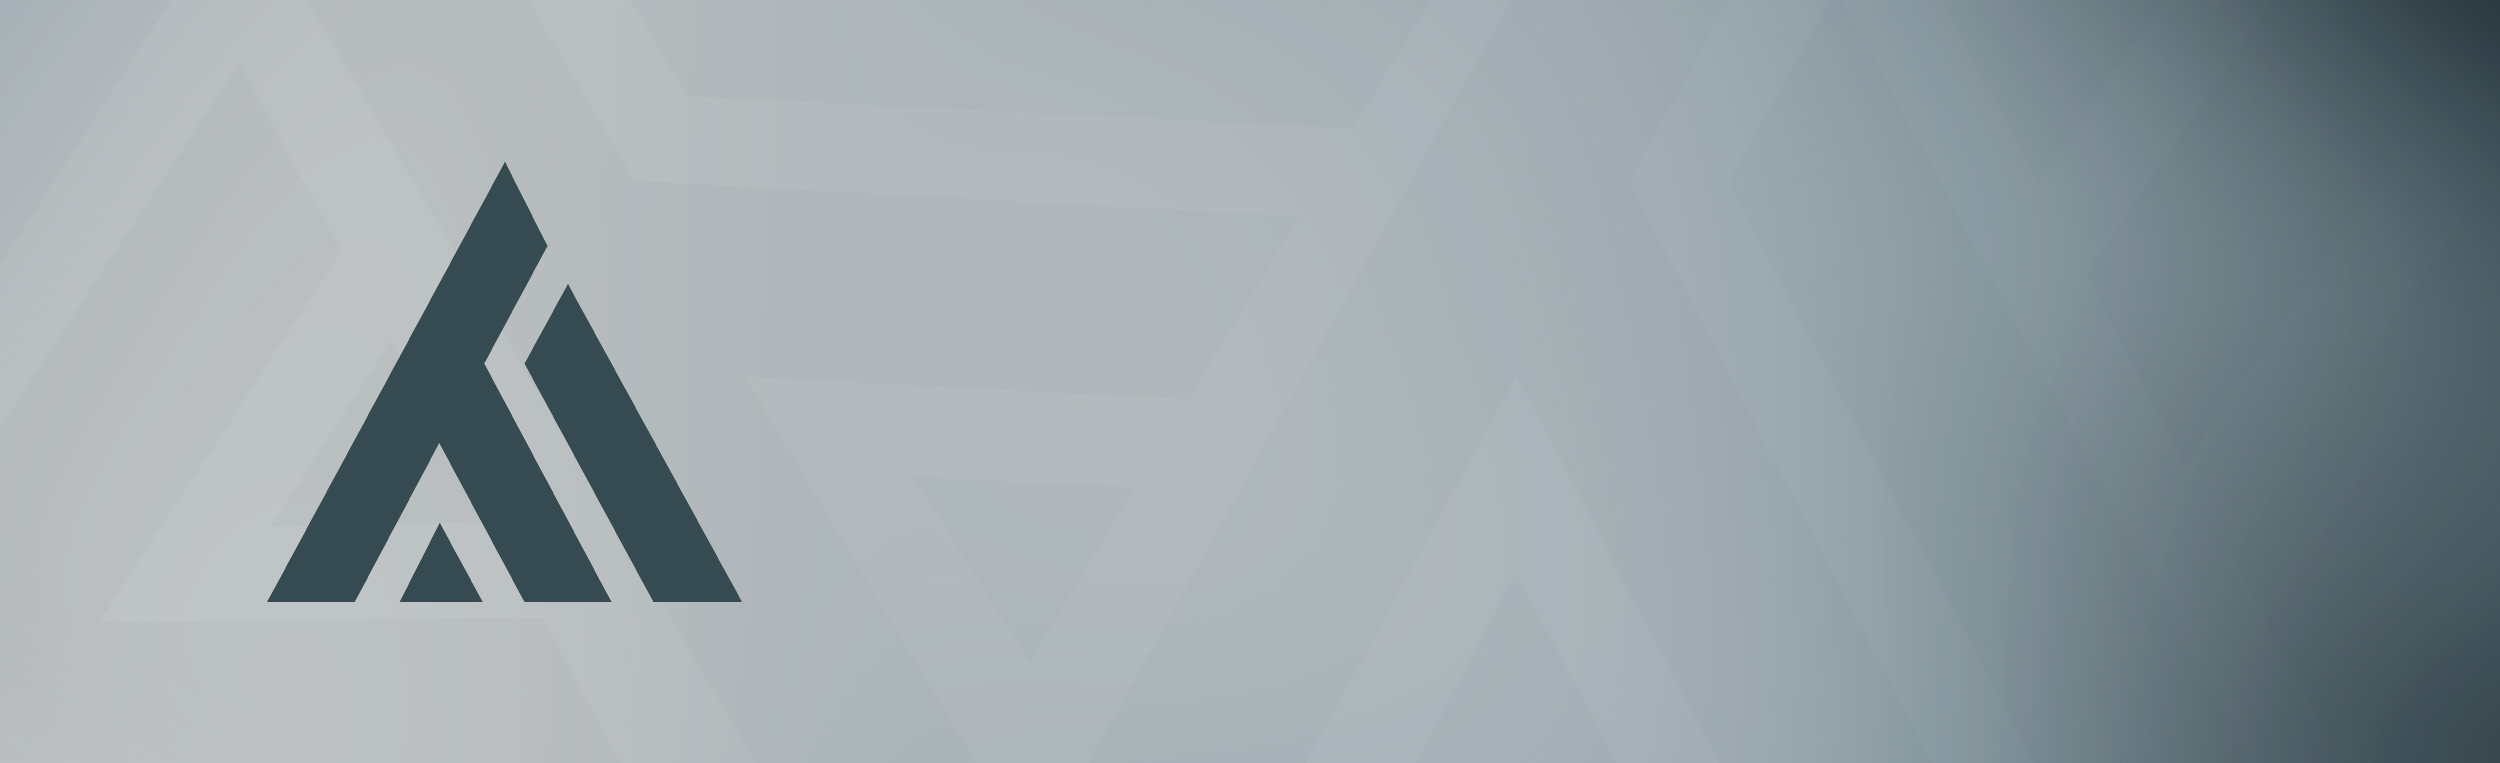
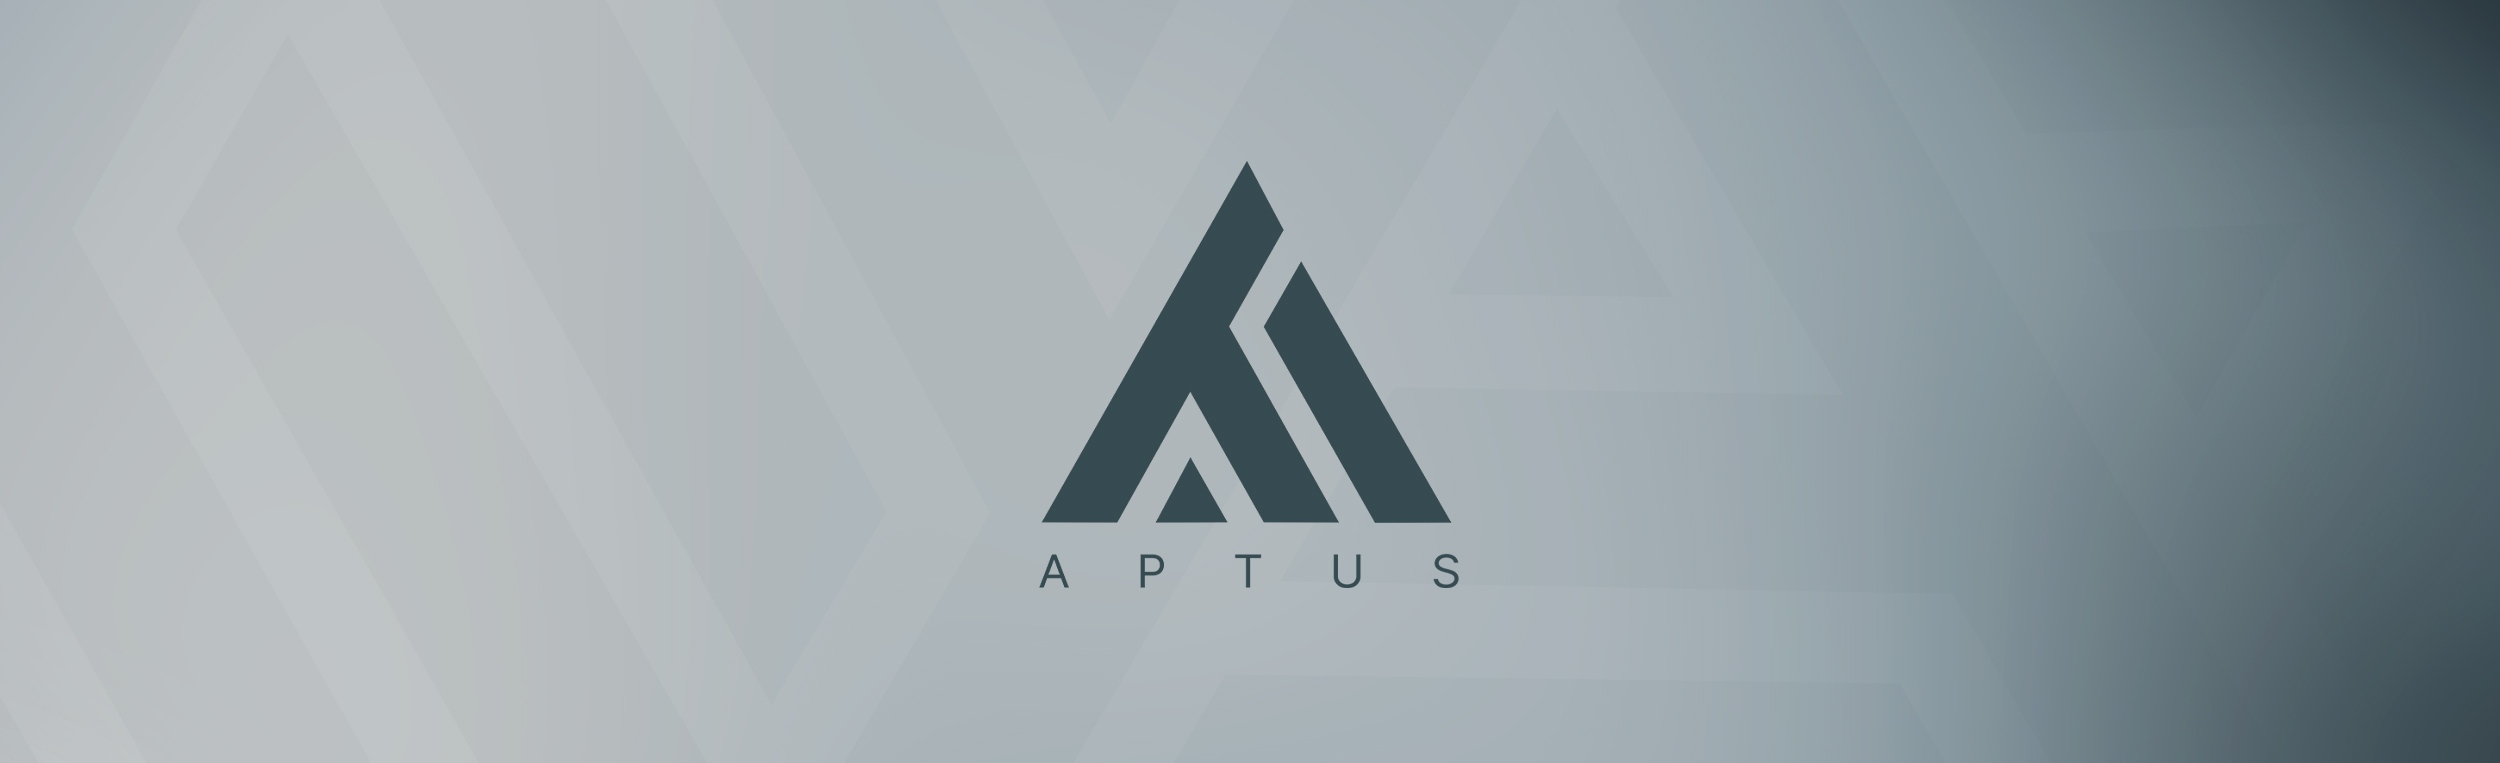
Feat: Cozy Library Page Added

diff --git a/cozylibrary.html b/cozylibrary.html
@@ -1,0 +1,241 @@
+<!DOCTYPE html>
+<html>
+  <head>
+    <style>
+      @media only screen and (max-width: 767px) {
+        header h2 {
+          font-size: 1em;
+        }
+        header p {
+          font-size: 1.2em;
+        }
+      }
+      .aptusnaslov a {
+        color: white;
+      }
+
+      .scrollable-images {
+        display: flex;
+        overflow-x: scroll;
+        white-space: nowrap;
+      }
+      .scrollable-images::-webkit-scrollbar {
+        width: 1px;
+        height: 8px;
+        background-color: #f5f5f5;
+      }
+      ::-webkit-scrollbar-thumb {
+        background: rgb(229, 85, 109);
+      }
+
+      /* Handle on hover */
+      ::-webkit-scrollbar-thumb:hover {
+        background: #555;
+      }
+      .scrollable-images img {
+        height: 400px;
+        margin: 50px 0px 50px 0px;
+        opacity: 1;
+        transition: opacity 1s ease-in-out;
+      }
+      .scrollable-images img.scrolling {
+        opacity: 0;
+        animation: fadeOut 0.2 ease-in-out forwards;
+      }
+      @keyframes fadeOut {
+        from {
+          opacity: 1;
+        }
+        to {
+          opacity: 0;
+        }
+      }
+    </style>
+    <title>Aptus</title>
+    <meta charset="utf-8" />
+    <meta
+      name="viewport"
+      content="width=device-width, initial-scale=1, user-scalable=no"
+    />
+    <link rel="stylesheet" href="assets/css/main.css" />
+    <noscript
+      ><link rel="stylesheet" href="assets/css/noscript.css"
+    /></noscript>
+  </head>
+  <body class="is-preload">
+    <!-- Page Wrapper -->
+    <div id="page-wrapper">
+      <!-- Header -->
+      <header id="header">
+        <h1 class="aptusnaslov"><a href="index.html">Cozy Library</a></h1>
+        <nav id="nav">
+          <ul>
+            <li class="special">
+              <a href="#menu" class="menuToggle"><span></span></a>
+              <div id="menu">
+                <ul>
+                  <li><a href="index.html">Home</a></li>
+                  <li><a href="index.html#one">About</a></li>
+                  <li><a href="aptus.html">Aptus</a></li>
+                  <li><a href="yomo.html">Yomo</a></li>
+                  <li><a href="falconair.html">Falcon Air</a></li>
+                  <li><a href="cozylibrary.html">Cozy Library</a></li>
+                  <li><a href="absolutefit.html">Absolutefit</a></li>
+                  <li><a href="#footer">Contact</a></li>
+                </ul>
+              </div>
+            </li>
+          </ul>
+        </nav>
+      </header>
+
+      <!-- Main -->
+      <article id="main">
+        <header
+          style="
+            position: relative;
+            background-image: url(images/cozylibrarybanner.jpg);
+            background-size: cover;
+            scale: 100%;
+          "
+        ></header>
+        <!-- 
+        <header style="position: relative; border: none; background-color:rgb(255, 142, 161)">
+          <img
+            src="images/aptusbanner.jpg"
+            style="width: 100%; height: 100%; max-width: 100%; max-height: 100%; border: none;"
+          />
+          <div
+            style="
+              position: absolute;
+              top: 50%;
+              left: 50%;
+              transform: translate(-50%, -50%);
+              text-align: center;
+            "
+          >
+            <h2 style="margin: 0">APTUS</h2>
+            <p style="margin: 0">Fitness App For Beginners</p>
+          </div>
+        </header>  -->
+
+        <section class="wrapper style5">
+          <div class="inner">
+            <h3>Role & Responsibilities</h3>
+            <p class="role">
+              Solo UI/UX Designer <br />
+              <br />
+              • User Research <br />
+              • Prototyping <br />
+              • Usability Test <br />
+              • Visual Design
+            </p>
+
+            <hr />
+
+            <h3>Overview</h3>
+            <p class="overview">
+              With so many different rules depending on what you find or
+              somebody tells you, it can get really confusing to follow the best
+              practices when it comes to becomming fit. To adress this problem,
+              Aptus was designed to take in consideration the users current
+              phisical status and personalize the information depening on it.
+            </p>
+
+            <p>
+              It has two key functionalities: Giving users feedback and advice
+              depening on the calculated user's BMI. Has the ability of gender
+              selection and based on that features different styles of workout.
+            </p>
+
+            <hr />
+
+            <h3>Context</h3>
+            <p>
+              Aptus is a simple fitness app that I developet, from conception to
+              execution, for a college project. It was mainly designed to be
+              simple and likeable by beginners who are this app's targeted
+              audience.
+            </p>
+
+            <hr />
+
+            <h3>Prototype</h3>
+
+            <div class="scrollable-images">
+              <img src="images/aptus1.jpg" alt="Image 1" />
+              <img src="images/aptus2.jpg" alt="Image 2" />
+              <img src="images/aptus3.jpg" alt="Image 3" />
+              <img src="images/aptus4.jpg" alt="Image 4" />
+              <img src="images/aptus5.jpg" alt="Image 5" />
+              <img src="images/aptus6.jpg" alt="Image 6" />
+              <img src="images/aptus7.jpg" alt="Image 7" />
+              <img src="images/aptus8.jpg" alt="Image 8" />
+              <img src="images/aptus9.jpg" alt="Image 9" />
+              <img src="images/aptus10.jpg" alt="Image 10" />
+              <img src="images/aptus11.jpg" alt="Image 10" />
+              <img src="images/aptus12.jpg" alt="Image 10" />
+            </div>
+
+            <br />
+            <br />
+            <hr />
+            <h3>Full App:</h3>
+            <p>That's it for this project. I really hope you enjoyed it.</p>
+          </div>
+        </section>
+      </article>
+
+      <!-- Footer -->
+      <footer id="footer" style="background-color: rgb(229, 85, 109, 0.1)">
+        <ul class="icons">
+          <p>
+            <br />
+            FEEL FREE TO CONTACT ME, I WILL ANSWER AS SOON AS POSSIBLE<br />
+            <br />
+          </p>
+          <li>
+            <a
+              href="https://www.linkedin.com/in/ismail-ganibegovi%C4%87/"
+              class="icon brands fa-linkedin"
+              ><span class="label">LinkedIn</span></a
+            >
+          </li>
+          <li>
+            <a
+              href="https://github.com/GanibegovicIsmail"
+              class="icon brands fa-github"
+              ><span class="label">Github</span></a
+            >
+          </li>
+          <li>
+            <a
+              href="https://www.instagram.com/ganibegovicismail/"
+              class="icon brands fa-instagram"
+              ><span class="label">Instagram</span></a
+            >
+          </li>
+          <li>
+            <a
+              href="https://www.facebook.com/hemuli.7/"
+              class="icon brands fa-facebook"
+              ><span class="label">Facebook</span></a
+            >
+          </li>
+        </ul>
+        <ul class="copyright">
+          <li>&copy; Ismail Ganibegovic</li>
+        </ul>
+      </footer>
+    </div>
+
+    <!-- Scripts -->
+    <script src="assets/js/jquery.min.js"></script>
+    <script src="assets/js/jquery.scrollex.min.js"></script>
+    <script src="assets/js/jquery.scrolly.min.js"></script>
+    <script src="assets/js/browser.min.js"></script>
+    <script src="assets/js/breakpoints.min.js"></script>
+    <script src="assets/js/util.js"></script>
+    <script src="assets/js/main.js"></script>
+  </body>
+</html>

diff --git a/aptus.html b/aptus.html
@@ -21,7 +21,7 @@
       }
       .scrollable-images::-webkit-scrollbar {
         width: 1px;
-        height: 6px;
+        height: 8px;
         background-color: #f5f5f5;
       }
       ::-webkit-scrollbar-thumb {
@@ -75,13 +75,13 @@
               <div id="menu">
                 <ul>
                   <li><a href="index.html">Home</a></li>
-                  <li><a href="index.html">About</a></li>
+                  <li><a href="index.html#one">About</a></li>
                   <li><a href="aptus.html">Aptus</a></li>
                   <li><a href="yomo.html">Yomo</a></li>
                   <li><a href="falconair.html">Falcon Air</a></li>
                   <li><a href="cozylibrary.html">Cozy Library</a></li>
                   <li><a href="absolutefit.html">Absolutefit</a></li>
-                  <li><a href="index.html">Contact</a></li>
+                  <li><a href="#footer">Contact</a></li>
                 </ul>
               </div>
             </li>
@@ -98,12 +98,7 @@
             background-size: cover;
             scale: 100%;
           "
-        >
-          <h2 style="text-align: center; color: white">APTUS</h2>
-          <p style="text-align: center; color: white">
-            Fitness App For Beginners
-          </p>
-        </header>
+        ></header>
         <!-- 
         <header style="position: relative; border: none; background-color:rgb(255, 142, 161)">
           <img

diff --git a/index.html b/index.html
@@ -30,13 +30,13 @@
               <div id="menu">
                 <ul>
                   <li><a href="index.html">Home</a></li>
-                  <li><a href="index.html">About</a></li>
+                  <li><a href="#one">About</a></li>
                   <li><a href="aptus.html">Aptus</a></li>
                   <li><a href="yomo.html">Yomo</a></li>
                   <li><a href="falconair.html">Falcon Air</a></li>
                   <li><a href="cozylibrary.html">Cozy Library</a></li>
                   <li><a href="absolutefit.html">Absolutefit</a></li>
-                  <li><a href="index.html">Contact</a></li>
+                  <li><a href="#footer">Contact</a></li>
                 </ul>
               </div>
             </li>
@@ -56,7 +56,11 @@
       </section>
 
       <!-- One -->
-      <section id="one" class="wrapper style1 special">
+      <section
+        id="one"
+        class="wrapper style1 special"
+        style="scroll-behavior: smooth"
+      >
         <div class="inner">
           <header class="major">
             <h2>About Me<br /></h2>

diff --git a/falconair.html b/falconair.html
@@ -131,13 +131,13 @@
               <div id="menu">
                 <ul>
                   <li><a href="index.html">Home</a></li>
-                  <li><a href="index.html">About</a></li>
+                  <li><a href="index.html#one">About</a></li>
                   <li><a href="aptus.html">Aptus</a></li>
                   <li><a href="yomo.html">Yomo</a></li>
                   <li><a href="falconair.html">Falcon Air</a></li>
                   <li><a href="cozylibrary.html">Cozy Library</a></li>
                   <li><a href="absolutefit.html">Absolutefit</a></li>
-                  <li><a href="index.html">Contact</a></li>
+                  <li><a href="#footer">Contact</a></li>
                 </ul>
               </div>
             </li>
@@ -289,7 +289,12 @@
         <img src="images/falconimg (2).jpg" />
       </div>
 
+      <br/>
+      <br/>
 
+      <p>
+        That's it for this project. I really hope you enjoyed it.
+      </p>
 
         </section>
       </article>

diff --git a/yomo.html b/yomo.html
@@ -76,13 +76,13 @@
               <div id="menu">
                 <ul>
                   <li><a href="index.html">Home</a></li>
-                  <li><a href="index.html">About</a></li>
+                  <li><a href="index.html#one">About</a></li>
                   <li><a href="aptus.html">Aptus</a></li>
                   <li><a href="yomo.html">Yomo</a></li>
                   <li><a href="falconair.html">Falcon Air</a></li>
                   <li><a href="cozylibrary.html">Cozy Library</a></li>
                   <li><a href="absolutefit.html">Absolutefit</a></li>
-                  <li><a href="index.html">Contact</a></li>
+                  <li><a href="#footer">Contact</a></li>
                 </ul>
               </div>
             </li>

diff --git a/assets/css/main.css b/assets/css/main.css
@@ -1,6 +1,10 @@
 @import url(fontawesome-all.min.css);
 @import url("https://fonts.googleapis.com/css?family=Open+Sans:400,400italic,600,600italic,800,800italic");
 
+* {
+  scroll-behavior: smooth !important;
+}
+
 html,
 body,
 div,
@@ -105,7 +109,7 @@ section {
 }
 /* width */
 ::-webkit-scrollbar {
-  width: 5px;
+  width: 8px;
 }
 
 /* Track */
